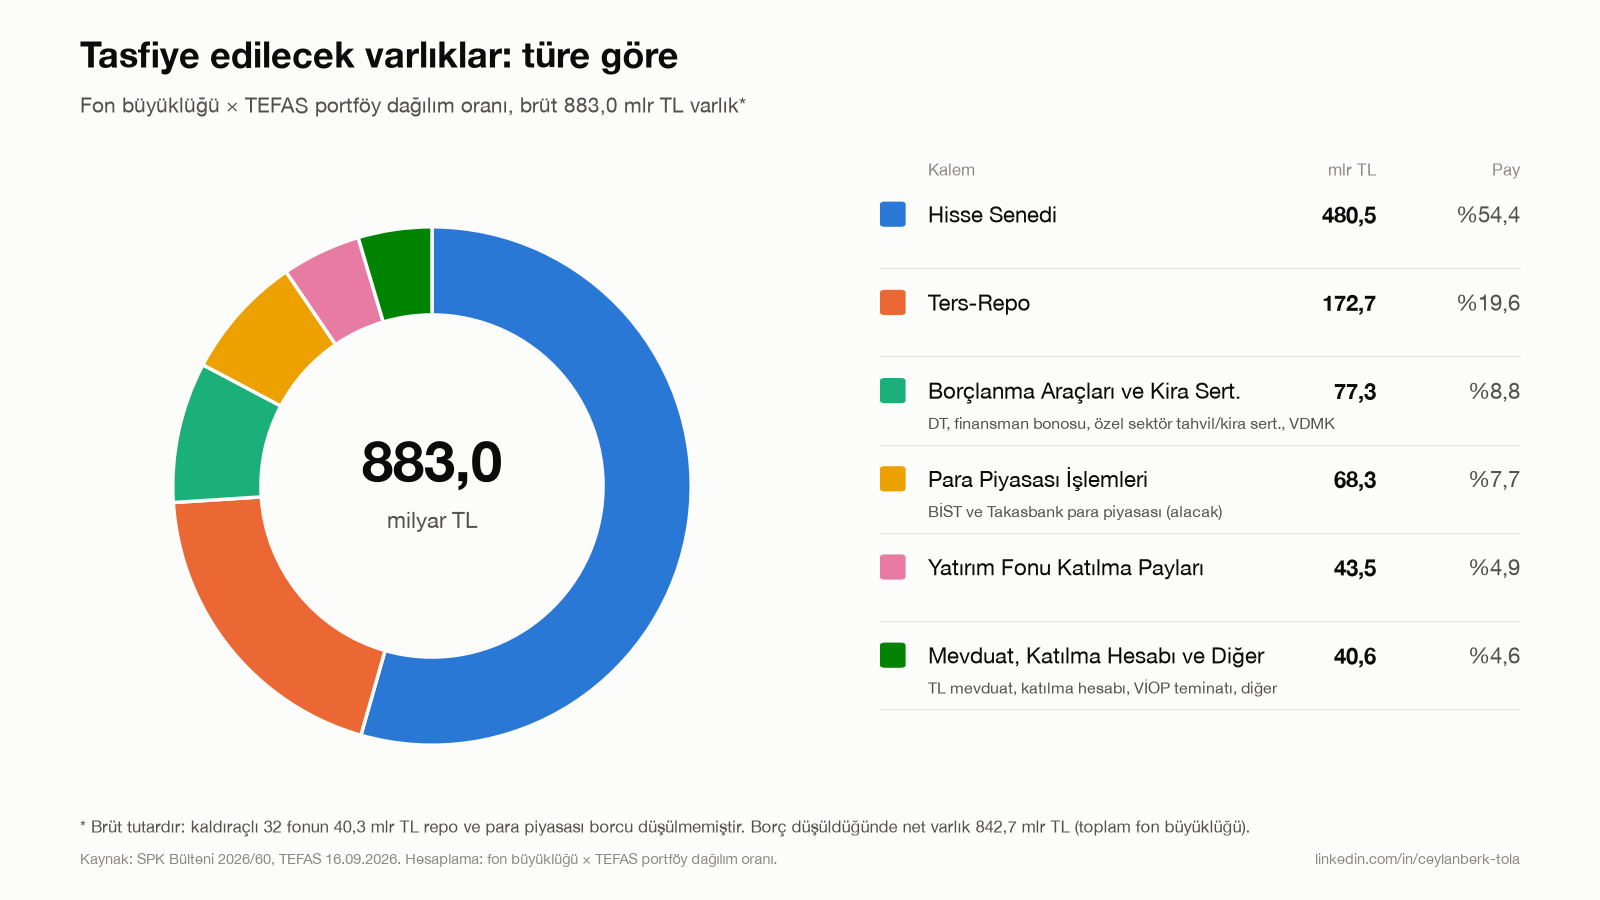
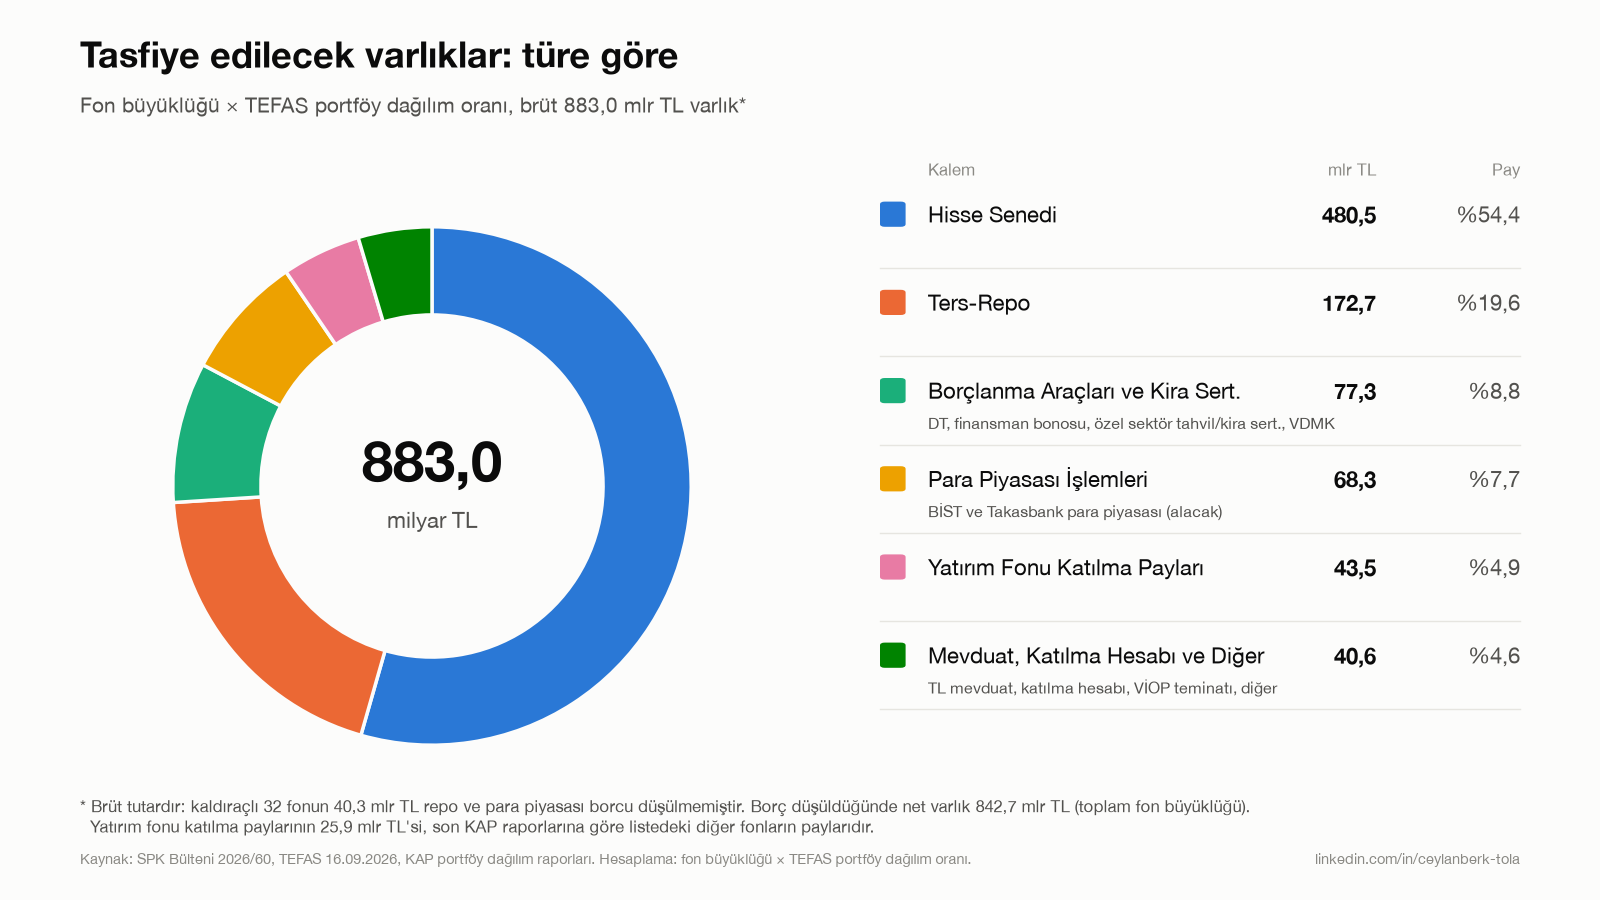
KAP Rapor

Changed region(s): [[0.0625, 0.8711, 0.7812, 0.9644]]

diff --git a/tasfiye/kap.py b/tasfiye/kap.py
@@ -1,0 +1,131 @@
+"""KAP portföy dağılım raporlarından, fon payı tutan fonların listedeki diğer fonlara yatırımlarını çıkarır.
+
+Ağ erişimi gerektirir, ana akışta çalışmaz: python -m tasfiye.kap
+Çıktı: data/raw/kap_fon_paylari.csv (her satır: tutan fon, rapor bilgisi ve net varlığı, tutulan listedeki fon, oran).
+İndirilen raporlar data/raw/kap_cache/ altında önbelleğe alınır (repoya girmez).
+"""
+import datetime as dt
+import json
+import re
+import subprocess
+import time
+import urllib.error
+import urllib.request
+
+from . import config
+from .io import load_detay, load_tefas_dagilim, write_csv
+
+API = "https://www.kap.org.tr/tr/api"
+CACHE = config.RAW / "kap_cache"
+PORTFOY_DAGILIM_RAPORU = "8aca490d502e34b801502e380044002b"  # KAP konu (subject) kimliği
+ARAMA_BITIS, ARAMA_BASLANGIC = dt.date(2026, 9, 17), dt.date(2026, 1, 1)
+
+
+def _request(url, body=None):
+    headers = {"User-Agent": "Mozilla/5.0", "Accept-Language": "tr", "Content-Type": "application/json"}
+    data = json.dumps(body).encode() if body is not None else None
+    for attempt in range(6):
+        try:
+            return urllib.request.urlopen(urllib.request.Request(url, data, headers), timeout=120).read()
+        except urllib.error.HTTPError as e:
+            if e.code != 429:
+                raise
+            time.sleep(60 * (attempt + 1))  # KAP istek sınırı
+    raise RuntimeError(f"KAP istek sınırı aşılamadı: {url}")
+
+
+def fon_payi_tutanlar():
+    return sorted(k for k, a in load_tefas_dagilim().items() if any(f in a for f in config.FON_PAYI_ALANLARI))
+
+
+def son_raporlar(fonlar):
+    """Her fon için ARAMA_BITIS'ten geriye en güncel portföy dağılım raporu bildirimi."""
+    path = CACHE / "son_raporlar.json"
+    if path.exists():
+        return json.loads(path.read_text(encoding="utf-8"))
+    found, end = {}, ARAMA_BITIS
+    while end >= ARAMA_BASLANGIC and len(found) < len(fonlar):
+        start = end - dt.timedelta(days=6)
+        body = {"fromDate": start.isoformat(), "toDate": end.isoformat(), "fundTypeList": ["YF"],
+                "mkkMemberOidList": [], "fundOidList": [], "passiveFundOidList": [], "disclosureClass": "DG",
+                "isLate": "", "subjectList": [PORTFOY_DAGILIM_RAPORU], "discIndex": [], "fromSrc": False, "srcCategory": ""}
+        for x in sorted(json.loads(_request(f"{API}/disclosure/funds/byCriteria", body)), key=lambda x: -x["disclosureIndex"]):
+            if x["fundCode"] in fonlar and x["fundCode"] not in found:
+                found[x["fundCode"]] = {k: x[k] for k in ("disclosureIndex", "publishDate", "ruleType")}
+        end = start - dt.timedelta(days=1)
+        time.sleep(8)
+    CACHE.mkdir(parents=True, exist_ok=True)
+    path.write_text(json.dumps(found, ensure_ascii=False, indent=1), encoding="utf-8")
+    return found
+
+
+def rapor_metni(kod, bildirim_no):
+    pdf, txt = CACHE / f"{kod}.pdf", CACHE / f"{kod}.txt"
+    if not txt.exists():
+        if not pdf.exists():
+            detail = json.loads(_request(f"{API}/notification/attachment-detail/{bildirim_no}"))
+            ekler = detail[0].get("attachments") or []
+            url = f"{API}/file/download/{ekler[0]['objId']}" if ekler else f"{API}/BildirimPdf/{bildirim_no}"
+            pdf.write_bytes(_request(url))
+            time.sleep(3)
+        subprocess.run(["pdftotext", "-layout", str(pdf), str(txt)], check=True, capture_output=True)
+    return txt.read_text(encoding="utf-8", errors="ignore")
+
+
+def _sayi(s):
+    """'1.234,56' (TR) veya '1,234.56' (US) biçimindeki sayıyı çevirir."""
+    if re.fullmatch(r"-?\d{1,3}(\.\d{3})*,\d+", s):
+        return float(s.replace(".", "").replace(",", "."))
+    return float(s.replace(",", ""))
+
+
+def net_varlik(metin):
+    for pat in (r"Net Varl[ıi]k De[ğg]eri\s*:\s*([\d.,]+)", r"FON TOPLAM DE[ĞG]ER[İI]\s+([\d.,]+)"):
+        if m := re.search(pat, metin, re.I):
+            return _sayi(m.group(1))
+    raise ValueError("net varlık değeri bulunamadı")
+
+
+def listedeki_fon_paylari(kod, metin, nav, listedeki):
+    """Tutulan listedeki fon kodu -> fon toplam değerine oranı (0-1)."""
+    oranlar = {}
+    for line in metin.splitlines():
+        m = re.match(r"^\s*([A-Z0-9]{3})\s+(.*\S)\s*$", line)
+        if not m or m.group(1) not in listedeki or m.group(1) == kod:
+            continue
+        if atlas := re.search(r"([\d,]+\.\d+)\s+-?[\d.]+%$", m.group(2)):  # ... rayiç değer  %FPD
+            oran = _sayi(atlas.group(1)) / nav
+        elif tera := re.search(r"(-?[\d.]+,\d+)\s+(-?[\d.]+,\d+)\s+(-?[\d.]+,\d+)$", m.group(2)):  # ... grup% FPD% FTD%
+            oran = _sayi(tera.group(3)) / 100
+        else:
+            raise ValueError(f"{kod}: satır ayrıştırılamadı: {line.strip()[:100]}")
+        oranlar[m.group(1)] = oranlar.get(m.group(1), 0) + oran
+    return oranlar
+
+
+def main():
+    listedeki = {r["fon_kodu"] for r in load_detay()}
+    fonlar = fon_payi_tutanlar()
+    raporlar = son_raporlar(set(fonlar))
+    rows = []
+    for kod in fonlar:
+        r = raporlar.get(kod)
+        if not r:
+            rows.append([kod, "rapor_yok", "", "", "", "", "", ""])
+            continue
+        metin = rapor_metni(kod, r["disclosureIndex"])
+        bilgi = [r["ruleType"], r["publishDate"][:10], r["disclosureIndex"]]
+        if "muaftır" in metin:  # II-14.2 md.19/2: nitelikli yatırımcı fonları rapor yayımlamaz
+            rows.append([kod, "muaf", *bilgi, "", "", ""])
+            continue
+        nav = net_varlik(metin)
+        paylar = listedeki_fon_paylari(kod, metin, nav, listedeki)
+        bilgi.append(round(nav, 2))
+        rows += [[kod, "rapor", *bilgi, c, round(o, 6)] for c, o in sorted(paylar.items())] or [[kod, "rapor", *bilgi, "", 0]]
+    write_csv(config.KAP_FON_PAYLARI, ["fon_kodu", "durum", "rapor_donemi", "yayin_tarihi", "kap_bildirim_no",
+                                       "rapor_net_varlik_tl", "tutulan_fon_kodu", "oran"], rows)
+    print(f"{len(fonlar)} fon payı tutan fon -> {config.KAP_FON_PAYLARI.relative_to(config.ROOT)}")
+
+
+if __name__ == "__main__":
+    main()

diff --git a/tasfiye/report.py b/tasfiye/report.py
@@ -1,5 +1,5 @@
 """README'deki "Çıktılar" bölümünü işlenmiş CSV'lerden yeniden üretir."""
-from . import config
+from . import config, fonlar_arasi
 from .io import load_detay, read_csv
 
 README = config.ROOT / "README.md"
@@ -43,6 +43,7 @@ def bolum():
     varlik = read_csv(config.PROCESSED / "ozet_varlik_dagilimi.csv")
     net_toplam = sum(float(r["net_tl"]) for r in varlik)
     en_buyuk = sorted(load_detay(), key=lambda r: -r["portfoy_buyuklugu_tl"])[:10]
+    bilinmeyen = fonlar_arasi.bilinmeyen()
     parts = [
         grafik(1, "1_fon_tipine_gore_tasfiye.png", "Fon tipine göre tasfiye tutarı"),
         grup_tablosu("ozet_fon_tipi.csv", "Fon tipi"),
@@ -55,6 +56,15 @@ def bolum():
                   mlr(r["net_tl"]), yuzde(r["net_tl"], net_toplam)] for r in varlik], "lrrrr"),
         grafik(3, "3_portfoy_sirketine_gore_tasfiye.png", "Portföy şirketine göre tasfiye tutarı"),
         grup_tablosu("ozet_sirket.csv", "Portföy şirketi"),
+        "### Fonların listedeki diğer fonlara yatırımı\n\n"
+        "Toplamlardan düşülmemiştir; tutan ve tutulan fonun büyüklüğünde ayrı ayrı yer alır. Tutarlar, tutan fonun KAP'taki "
+        f"en güncel portföy dağılım raporundandır. KAP'ta güncel raporu bulunmayan ({bilinmeyen['rapor_yok'][0]} fon) veya rapor "
+        f"yayımlamaktan muaf olan ({bilinmeyen['muaf'][0]} fon) fonlar için bu bilgi bulunmamaktadır. "
+        "50 mn TL altındaki kalemler için `fonlar_arasi_yatirim.csv` dosyasına bakın.\n\n"
+        + tablo(["Tutan fon", "Tutulan fon", "Tutar (mlr TL)", "KAP raporu"],
+                [[r["tutan_fon"], r["tutulan_fon"], f"{float(r['tutar_tl']) / 1e9:,.2f}".replace(".", ","),
+                  f"{r['kap_rapor_donemi']} ({r['kap_yayin_tarihi']})"]
+                 for r in read_csv(fonlar_arasi.CIKTI) if float(r["tutar_tl"]) >= 5e7], "llrl"),
         "### En büyük 10 fon\n\n"
         + tablo(["Kod", "Fon", "Büyüklük (mlr TL)", "Yatırımcı"],
                 [[r["fon_kodu"], r["fon_unvani"], mlr(r["portfoy_buyuklugu_tl"]), binlik(r["yatirimci_sayisi"])]
@@ -71,6 +81,8 @@ def bolum():
             ["[`ozet_semsiye_fon_turu.csv`](data/processed/ozet_semsiye_fon_turu.csv)", "Şemsiye fon türüne göre özet"],
             ["[`ozet_sirket.csv`](data/processed/ozet_sirket.csv)", "Portföy şirketine göre özet"],
             ["[`ozet_varlik_dagilimi.csv`](data/processed/ozet_varlik_dagilimi.csv)", "Varlık türüne göre brüt, borç ve net TL"],
+            ["[`fonlar_arasi_yatirim.csv`](data/processed/fonlar_arasi_yatirim.csv)", "Fonların listedeki diğer fonlara yatırımı (son KAP raporları)"],
+            ["[`kap_fon_paylari.csv`](data/raw/kap_fon_paylari.csv)", "KAP raporlarından çıkarılan ham fon payı oranları ve rapor durumu"],
         ], "ll"),
     ]
     return "\n\n".join(parts)

diff --git a/tasfiye/fonlar_arasi.py b/tasfiye/fonlar_arasi.py
@@ -1,0 +1,50 @@
+"""Listedeki fonların birbirine yatırımı (bilgi amaçlı; toplamlardan düşülmez).
+
+Bir fon (ör. TLY) listedeki başka bir fonun (HMV) payını tutuyorsa o tutar iki fonun büyüklüğünde de yer alır.
+Tutarlar, tutan fonun KAP'taki en güncel portföy dağılım raporundaki değerlerdir (oran × rapor net varlığı).
+"""
+from collections import defaultdict
+
+from . import config
+from .io import load_detay, load_tefas_dagilim, read_csv, write_csv
+
+CIKTI = config.PROCESSED / "fonlar_arasi_yatirim.csv"
+
+
+def yatirimlar():
+    """Rapor yayımlayan fonların listedeki fonlara yatırımları, rapordaki TL tutarıyla, büyükten küçüğe."""
+    return sorted(({**r, "tutar_tl": float(r["oran"]) * float(r["rapor_net_varlik_tl"])}
+                   for r in read_csv(config.KAP_FON_PAYLARI) if r["durum"] == "rapor" and r["tutulan_fon_kodu"]),
+                  key=lambda r: -r["tutar_tl"])
+
+
+def toplam():
+    return sum(r["tutar_tl"] for r in yatirimlar())
+
+
+def bilinmeyen():
+    """Portföy içeriği bilinmeyen fonlar: KAP durumu -> (fon sayısı, 16.09 fon payı TL)."""
+    buyukluk = {r["fon_kodu"]: r["portfoy_buyuklugu_tl"] for r in load_detay()}
+    dagilim = load_tefas_dagilim()
+    out = defaultdict(lambda: [0, 0.0])
+    for r in read_csv(config.KAP_FON_PAYLARI):  # muaf / rapor_yok fonlar tek satır
+        kod = r["fon_kodu"]
+        if r["durum"] != "rapor":
+            out[r["durum"]][0] += 1
+            out[r["durum"]][1] += sum(dagilim[kod].get(f, 0) for f in config.FON_PAYI_ALANLARI) / 100 * buyukluk[kod]
+    return dict(out)
+
+
+def main():
+    rows = yatirimlar()
+    write_csv(CIKTI, ["tutan_fon", "tutulan_fon", "tutar_tl", "tutan_fon_rapor_net_varlik_tl", "oran",
+                      "kap_rapor_donemi", "kap_yayin_tarihi", "kap_bildirim_no"],
+              [[r["fon_kodu"], r["tutulan_fon_kodu"], round(r["tutar_tl"], 2), r["rapor_net_varlik_tl"], r["oran"],
+                r["rapor_donemi"], r["yayin_tarihi"], r["kap_bildirim_no"]] for r in rows])
+    print(f"Listedeki fonlara yatırım (son KAP raporları): {toplam() / 1e9:,.2f} mlr TL, {len(rows)} çift")
+    for durum, (adet, tl) in bilinmeyen().items():
+        print(f"  içeriği bilinmeyen ({durum}): {adet} fon, {tl / 1e9:,.2f} mlr TL fon payı")
+
+
+if __name__ == "__main__":
+    main()

diff --git a/tasfiye/plots.py b/tasfiye/plots.py
@@ -7,7 +7,7 @@ import matplotlib.pyplot as plt
 from matplotlib import font_manager
 from matplotlib.patches import FancyBboxPatch
 
-from . import config
+from . import config, fonlar_arasi
 from .allocation import varlik_tutarlari
 from .io import load_detay, load_tefas_dagilim
 
@@ -96,6 +96,7 @@ def grupla(detay, key):
 def main():
     setup_fonts()
     detay = load_detay()
+    ic_yatirim = fonlar_arasi.toplam()
 
     donut([(k, v, f"{n} fon") for k, (v, n) in grupla(detay, "fon_tipi")],
           f"Tasfiye edilecek fonlar: {mlr(sum(r['portfoy_buyuklugu_tl'] for r in detay))} milyar TL",
@@ -110,8 +111,9 @@ def main():
           f"Fon büyüklüğü × TEFAS portföy dağılım oranı, brüt {mlr(brut)} mlr TL varlık*",
           "2_varlik_turune_gore_tasfiye.png",
           footnote=f"* Brüt tutardır: kaldıraçlı {len(kaldiracli)} fonun {mlr(-borc)} mlr TL repo ve para piyasası borcu "
-                   f"düşülmemiştir. Borç düşüldüğünde net varlık {mlr(brut + borc)} mlr TL (toplam fon büyüklüğü).",
-          source=f"Kaynak: SPK Bülteni 2026/60, TEFAS {config.VERI_TARIHI}. "
+                   f"düşülmemiştir. Borç düşüldüğünde net varlık {mlr(brut + borc)} mlr TL (toplam fon büyüklüğü).\n"
+                   f"  Yatırım fonu katılma paylarının {mlr(ic_yatirim)} mlr TL'si, son KAP raporlarına göre listedeki diğer fonların paylarıdır.",
+          source=f"Kaynak: SPK Bülteni 2026/60, TEFAS {config.VERI_TARIHI}, KAP portföy dağılım raporları. "
                  "Hesaplama: fon büyüklüğü × TEFAS portföy dağılım oranı.")
 
     donut([(f"{k} Portföy", v, f"{n} fon") for k, (v, n) in grupla(detay, "sirket")],

diff --git a/tasfiye/config.py b/tasfiye/config.py
@@ -9,12 +9,16 @@ CHARTS = ROOT / "output" / "grafikler"
 SPK_PDF = RAW / "spk_bulten_2026-60.pdf"
 TEFAS_GENEL = RAW / "tefas_genel_20260916.txt"
 TEFAS_DAGILIM = RAW / "tefas_dagilim_20260916.txt"
+KAP_FON_PAYLARI = RAW / "kap_fon_paylari.csv"
 
 FON_LISTESI = PROCESSED / "fon_listesi.csv"
 FON_DETAY = PROCESSED / "tasfiye_fonlar_detay.csv"
 FON_DAGILIM = PROCESSED / "tasfiye_fonlar_dagilim.csv"
 
 VERI_TARIHI = "16.09.2026"
+
+# portföy dağılımında fon payı kalemleri: yatırım fonu, borsa yatırım fonu, girişim sermayesi fonu
+FON_PAYI_ALANLARI = ("yyf", "byf", "gsykb")
 
 # tefas_genel dosyasındaki tur_idx -> TEFAS şemsiye fon türü
 SEMSIYE_TURLERI = [

diff --git a/tasfiye/__main__.py b/tasfiye/__main__.py
@@ -1,6 +1,6 @@
 """Tüm akışı çalıştırır: python -m tasfiye"""
-from . import allocation, dataset, extract, plots, report
+from . import allocation, fonlar_arasi, dataset, extract, plots, report
 
-for step in (extract, dataset, allocation, plots, report):
+for step in (extract, dataset, allocation, fonlar_arasi, plots, report):
     print(f"\n== {step.__name__.split('.')[-1]} ==")
     step.main()

diff --git a/README.md b/README.md
@@ -13,6 +13,10 @@ Fon büyüklükleri ve portföy dağılımları TEFAS'ın **16.09.2026** verisin
 | Brüt varlık | 883,0 milyar TL |
 | Kaldıraç borcu (32 fon) | 40,3 milyar TL |
 | Hisse senedi | 480,5 milyar TL |
+| Fonların listedeki diğer fonlara yatırımı* | 25,9 milyar TL |
+
+\* Portföy raporu yayımlayan fonların son KAP raporlarına göre. Bu tutar hem tutan hem tutulan fonun büyüklüğünde yer alır,
+toplamdan düşülmemiştir. 18 fon rapor yayımlamaktan muaf, 15 fon KAP'a rapor yüklememiş; bunların fon payı içeriği bilinmiyor.
 
 ## Çıktılar
 
@@ -82,6 +86,21 @@ Fon büyüklüğü × TEFAS portföy dağılım oranı. Negatif tutarlar kaldır
 | Bulls | 15 | 11,4 | %1,3 | 5.636 |
 | A1 Capital | 9 | 2,4 | %0,3 | 1.540 |
 
+### Fonların listedeki diğer fonlara yatırımı
+
+Toplamlardan düşülmemiştir; tutan ve tutulan fonun büyüklüğünde ayrı ayrı yer alır. Tutarlar, tutan fonun KAP'taki en güncel portföy dağılım raporundandır. KAP'ta güncel raporu bulunmayan (15 fon) veya rapor yayımlamaktan muaf olan (18 fon) fonlar için bu bilgi bulunmamaktadır. 50 mn TL altındaki kalemler için `fonlar_arasi_yatirim.csv` dosyasına bakın.
+
+| Tutan fon | Tutulan fon | Tutar (mlr TL) | KAP raporu |
+|:---|:---|---:|:---|
+| TLY | HMV | 12,53 | 35. Hafta (09.09.2026) |
+| DFI | ABG | 10,18 | 36. Hafta (16.09.2026) |
+| DOH | T3B | 2,02 | 35. Hafta (09.09.2026) |
+| DFI | PSE | 0,50 | 36. Hafta (16.09.2026) |
+| DOH | TLY | 0,19 | 35. Hafta (09.09.2026) |
+| KHA | AC4 | 0,16 | 8. Ay (03.09.2026) |
+| DFI | BAC | 0,12 | 36. Hafta (16.09.2026) |
+| SNY | PSE | 0,07 | 36. Hafta (16.09.2026) |
+
 ### En büyük 10 fon
 
 | Kod | Fon | Büyüklük (mlr TL) | Yatırımcı |
@@ -110,6 +129,8 @@ Fon büyüklüğü × TEFAS portföy dağılım oranı. Negatif tutarlar kaldır
 | [`ozet_semsiye_fon_turu.csv`](data/processed/ozet_semsiye_fon_turu.csv) | Şemsiye fon türüne göre özet |
 | [`ozet_sirket.csv`](data/processed/ozet_sirket.csv) | Portföy şirketine göre özet |
 | [`ozet_varlik_dagilimi.csv`](data/processed/ozet_varlik_dagilimi.csv) | Varlık türüne göre brüt, borç ve net TL |
+| [`fonlar_arasi_yatirim.csv`](data/processed/fonlar_arasi_yatirim.csv) | Fonların listedeki diğer fonlara yatırımı (son KAP raporları) |
+| [`kap_fon_paylari.csv`](data/raw/kap_fon_paylari.csv) | KAP raporlarından çıkarılan ham fon payı oranları ve rapor durumu |
 <!-- CIKTILAR:BITIS -->
 
 ## Kurulum ve çalıştırma
@@ -132,7 +153,11 @@ PDF'ten fon listesini çıkarmak için `pdftotext` gerekir (`brew install popple
 | 2 | `tasfiye.dataset` | fon listesi + `tefas_genel_20260916.txt` | `tasfiye_fonlar_detay.csv`, `ozet_fon_tipi.csv`, `ozet_semsiye_fon_turu.csv`, `ozet_sirket.csv` |
 | 3 | `tasfiye.allocation` | detay + `tefas_dagilim_20260916.txt` | `tasfiye_fonlar_dagilim.csv`, `ozet_varlik_dagilimi.csv` |
 | 4 | `tasfiye.plots` | işlenmiş veriler | `output/grafikler/*.png` |
-| 5 | `tasfiye.report` | özet CSV'ler | `README.md` çıktılar bölümü |
+| 5 | `tasfiye.fonlar_arasi` | `kap_fon_paylari.csv` | `fonlar_arasi_yatirim.csv` |
+| 6 | `tasfiye.report` | özet CSV'ler | `README.md` çıktılar bölümü |
+
+`tasfiye.kap` ana akışta çalışmaz: KAP'tan portföy dağılım raporlarını indirip `data/raw/kap_fon_paylari.csv` dosyasını üretir
+(`python -m tasfiye.kap`, ağ erişimi ve `pdftotext` gerekir).
 
 ## Veri kaynakları ve notlar
 
@@ -143,4 +168,8 @@ PDF'ten fon listesini çıkarmak için `pdftotext` gerekir (`brew install popple
 - **Şemsiye fon türü**, fonun bağlı olduğu şemsiye fonun TEFAS kategorisidir. **Fon tipi** ise grafikler için şemsiye türü ve unvandan türetilen sınıflamadır.
 - **Kaldıraç:** Portföy dağılımında repo ve para piyasası borçları negatif yüzde olarak gelir.
   Varlık grafiği brüt tutarı gösterir; borç düşülünce toplam, fon büyüklüğüne (842,7 mlr TL) eşitlenir.
+- **Fonların birbirine yatırımı:** Bazı fonlar listedeki başka fonların payını tutuyor (ör. TLY → HMV, DFI → ABG, DOH → T3B).
+  Hangi fonun payının tutulduğu TEFAS'ta yok; fon payı tutan 51 fonun KAP'taki en güncel portföy dağılım raporundan alındı.
+  Nitelikli yatırımcıya satılan fonlar rapor yayımlamaktan muaf (II-14.2 Tebliğ md. 19/2). Rapor tarihleri 16.09'dan farklı
+  olabildiği ve bazı fonların içeriği bilinmediği için bu tutar toplamlardan düşülmedi, bilgi olarak verildi.
 - `gsykb` alanının TEFAS arayüzünde etiketi yok; "Girişim Sermayesi Yatırım Fonu Katılma Payları" olarak yorumlandı (0,5 mlr TL).
